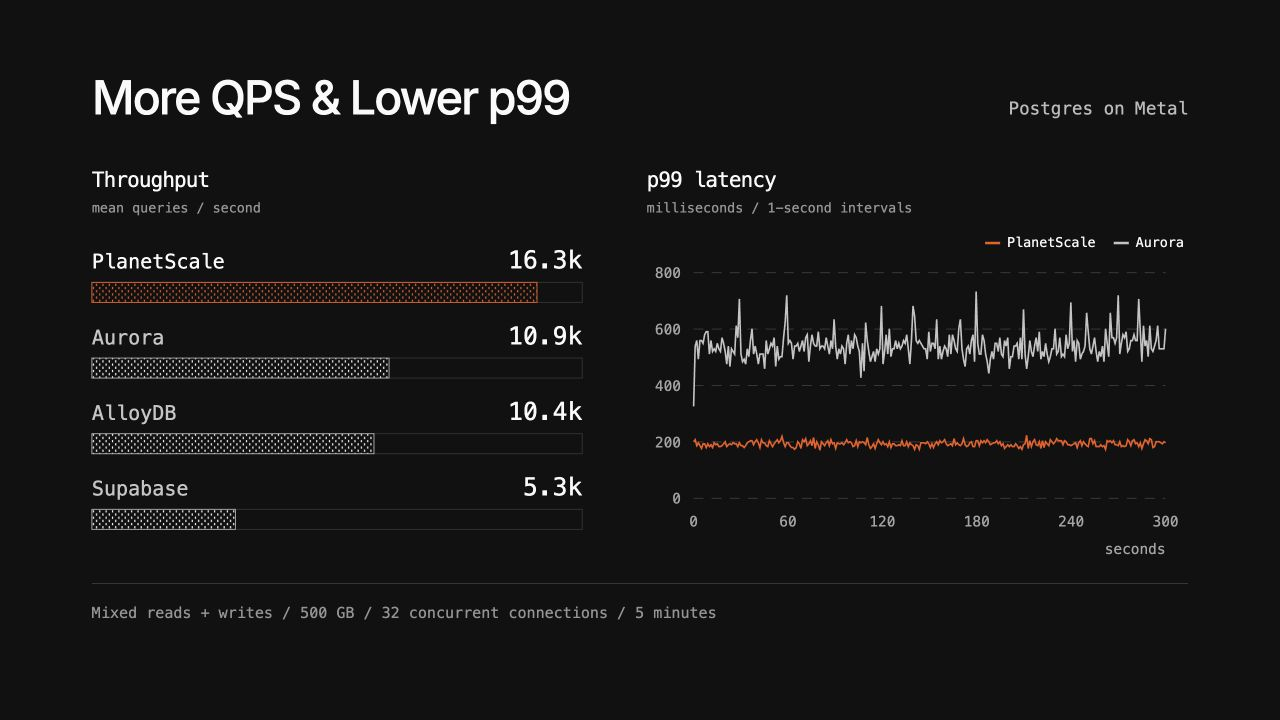
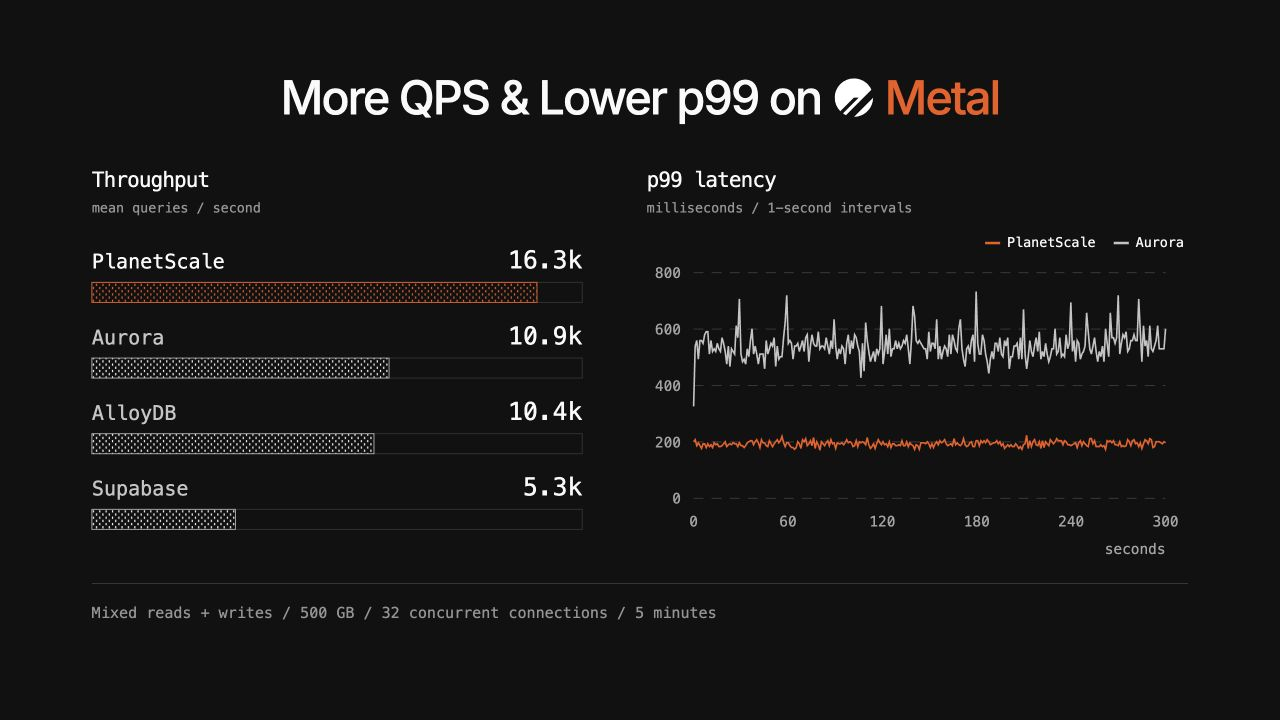
Center Metal benchmark headline with PlanetScale symbol

Changed region(s): [[0.0625, 0.0917, 0.9062, 0.1833]]

diff --git a/theme.css b/theme.css
@@ -43,7 +43,11 @@ body{margin:0;background:var(--ink);color:var(--white);font-family:Inter,Arial,s
 .ha-diagram svg{width:100%;height:auto}
 
 /* Benchmarks: align chart headings and reserve the lower band for workload context. */
-.metal-heading{display:flex;justify-content:space-between;align-items:baseline;gap:30px}
+.metal-heading{display:flex;justify-content:center;align-items:center}
+.metal-heading h2{display:flex;align-items:center;gap:16px;white-space:nowrap}
+.metal-title-brand{display:inline-flex;align-items:center;gap:14px}
+.metal-title-symbol{display:block;width:46px;height:46px;overflow:hidden;flex-shrink:0}
+.metal-title-symbol img{display:block;width:287.055px;height:46px;max-width:none}
 .metal-line{font:21px var(--mono);color:#bbb;white-space:nowrap}
 .benchmark-grid{display:grid;grid-template-columns:1fr 1.08fr;gap:64px;margin-top:52px}
 .benchmark-grid>div{position:relative}

diff --git a/build_content.py b/build_content.py
@@ -174,7 +174,7 @@ slides=[
  dict(id='opening',label='PlanetScale Postgres on Metal',theme='opening',html=f'''<h1>Postgres on <span class="accent">Metal</span></h1><div class="opening-architecture">{servers}</div>''',notes="1:15. “PlanetScale brings together the database, the hardware, and the team operating it. For your workload, we are proposing fully managed Postgres on Metal, with local NVMe storage. Our platform handles database operations, and our infrastructure team works with you on migration and production.” Point to Neki briefly: “For workloads that eventually outgrow one machine, Neki is our sharded Postgres product.” This is a product overview, not a query path or an automatic upgrade flow. Do not describe replica topology or control-plane internals here; slide 3 covers the architecture. Neki is in Platform Preview and requires a separate compatibility and migration assessment. The immediate offer remains hosted Postgres on Metal. Ask: “Where is your team spending the most time with Postgres today?” Transition: “Vitalize is one Postgres team that made this move.” Sources: https://planetscale.com/metal ; https://planetscale.com/docs/neki ; https://planetscale.com/blog/benchmarking-postgres."),
  dict(id='vitalize',label='Vitalize: 2 ms p95, half the vCPUs',theme='vitalize',html=f'''<h2>Vitalize: <span class="accent">2 ms p95</span></h2><div class="customer-story"><span>Hospital staffing software</span><span>400 GB / 150 million rows</span></div><div class="customer-move"><span>Supabase</span><span class="move-line"></span><strong>PlanetScale Metal</strong></div><div class="vitalize-charts"><div>{vitalize_latency}</div><div>{vitalize_compute}</div></div>''',notes='1:45. “Vitalize runs hospital staffing software. They moved a 400 GB Postgres database with 150 million rows from Supabase to PlanetScale Metal. They report about 2 ms p95 on half the vCPUs, with the same 16 GB of RAM.” Tell the customer story before explaining the graphs: demanding database reads, the move, then the result. The latency plot is their actual PlanetScale Query Insights capture after migration, not a paired before/after percentile. No comparable Supabase p95 is published. The 200 GB JSONB-heavy table comparison separately reports 50-second average reads before and 1.2-second maximum reads after; do not calculate a speedup from unlike statistics. The cutover included taking the app offline. These are customer-reported outcomes, not a guarantee. Transition: “Here is the platform operating that database.” Source: https://vitalize.care/blog/from-supabase-to-planetscale . Other cases and suitable alternatives: docs/customer-case-studies.md.'),
  dict(id='availability',label='Postgres Cluster Architecture',theme='availability',html=f'''<div class="title-with-stat"><h2>Postgres Cluster Architecture</h2><div class="sla"><strong>99.99<span>%</span></strong><p>single-region HA SLA</p></div></div><div class="ha-diagram">{ha}</div>''',notes="2:00. “This is one highly available Postgres cluster: three database nodes, each in a different availability zone within the same region. One node is primary; the other two are replicas.” A node (also called an instance in PlanetScale documentation) is an individual database server. An availability zone is the cloud location and failure boundary hosting that node. The whole deployment is a cluster, not one node. A, B, and C are schematic zone labels, not literal provider zone IDs. This depicts the standard three-node HA configuration; additional replicas are possible. Trace application connections, then replication, then operations. The two connection boxes are logical routing choices, not a claim of separate DNS endpoints. Replica reads are explicitly selected with a replica credential/username suffix on direct port 5432; reads must tolerate replication lag. Default PgBouncer connections on 6432 route to the primary; dedicated replica PgBouncers are a separate option. Semi-synchronous replication requires durable confirmation from at least one replica before commit success is returned. PlanetScale's custom Kubernetes operator manages the cluster's provisioning, health, failover, resizing, and upgrades; it is outside the SQL query path. Failovers can interrupt connections, so applications need retries. The 99.99% figure is the single-region monthly uptime commitment under the applicable SLA; it excludes single-node clusters and beta features. Hosted Postgres on Metal remains the offer. Transition: “Local NVMe is the hardware foundation. Let's look at its performance under load.” Verified 2026-09-27. Sources: https://planetscale.com/docs/postgres/postgres-architecture ; https://planetscale.com/docs/postgres/operations-philosophy ; https://planetscale.com/docs/postgres/scaling/replicas ; https://planetscale.com/legal/planetscale-service-level-agreement . Durable terminology: docs/postgres-architecture.md."),
- dict(id='metal',label='Postgres on Metal: throughput and p99',theme='metal',html=f'''<div class="metal-heading"><h2>More QPS &amp; Lower p99</h2><p class="metal-line">Postgres on Metal</p></div><div class="benchmark-grid"><div><h3>Throughput <span>mean queries / second</span></h3>{bars}</div><div><h3>p99 latency <span>milliseconds / 1-second intervals</span></h3><div class="chart-legend"><span class="ps-dot">PlanetScale</span><span class="aurora-dot">Aurora</span></div>{latency}</div></div><p class="workload">Mixed reads + writes / 500 GB / 32 concurrent connections / 5 minutes</p>''',notes="1:45. “In this mixed read/write benchmark, Postgres on Metal delivers more throughput and lower p99 than these tested configurations. We can evaluate the same questions against your application.” Left: arithmetic mean QPS across 300 one-second samples with 32 concurrent connections: PlanetScale 16,338.6276; Aurora 10,908.9315; AlloyDB 10,355.0109; Supabase 5,270.2068. Right: one-second interval p99 samples from the same TPCC-like benchmark, not an aggregate run-wide percentile. PlanetScale ranges 170.48–223.34 ms; Aurora 325.98–733 ms. Higher QPS and lower p99 are distinct findings. PlanetScale M-320 has 4 vCPU, 32 GB RAM, and 937 GB local NVMe; Aurora and AlloyDB use 4 vCPU/32 GB; Supabase uses 8 vCPU/32 GB and 12k IOPS. Clients run in each provider's cloud region; AlloyDB uses GCP, the others AWS. Work is sent to the primary, not summed across replicas. These are vendor-run synthetic results with different hardware and infrastructure, not isolated proof that NVMe causes every difference. The site's rounded ~18k headline spans other runs; this deck deliberately uses a single concurrency and exact samples. A separate read-only test has roughly equal average throughput for Aurora and PlanetScale, so do not claim every workload is faster by this ratio. Ask: “Which workload would we need to reproduce for this to matter to you?” Validate p95/p99, throughput, errors, and resource use in discovery. Transition: “When one machine becomes the constraint, Neki extends the architecture across Postgres shards.” Sources: https://planetscale.com/benchmarks ; https://planetscale.com/benchmarks/aurora ; https://planetscale.com/benchmarks/alloydb ; https://planetscale.com/benchmarks/supabase . Data definitions: docs/postgres-metal-benchmarks.md."),
+ dict(id='metal',label='Postgres on Metal: throughput and p99',theme='metal',html=f'''<div class="metal-heading"><h2>More QPS &amp; Lower p99 on <span class="metal-title-brand"><span class="metal-title-symbol"><img src="assets/planetscale-white.svg" alt="PlanetScale"></span><span class="accent">Metal</span></span></h2></div><div class="benchmark-grid"><div><h3>Throughput <span>mean queries / second</span></h3>{bars}</div><div><h3>p99 latency <span>milliseconds / 1-second intervals</span></h3><div class="chart-legend"><span class="ps-dot">PlanetScale</span><span class="aurora-dot">Aurora</span></div>{latency}</div></div><p class="workload">Mixed reads + writes / 500 GB / 32 concurrent connections / 5 minutes</p>''',notes="1:45. “In this mixed read/write benchmark, Postgres on Metal delivers more throughput and lower p99 than these tested configurations. We can evaluate the same questions against your application.” Left: arithmetic mean QPS across 300 one-second samples with 32 concurrent connections: PlanetScale 16,338.6276; Aurora 10,908.9315; AlloyDB 10,355.0109; Supabase 5,270.2068. Right: one-second interval p99 samples from the same TPCC-like benchmark, not an aggregate run-wide percentile. PlanetScale ranges 170.48–223.34 ms; Aurora 325.98–733 ms. Higher QPS and lower p99 are distinct findings. PlanetScale M-320 has 4 vCPU, 32 GB RAM, and 937 GB local NVMe; Aurora and AlloyDB use 4 vCPU/32 GB; Supabase uses 8 vCPU/32 GB and 12k IOPS. Clients run in each provider's cloud region; AlloyDB uses GCP, the others AWS. Work is sent to the primary, not summed across replicas. These are vendor-run synthetic results with different hardware and infrastructure, not isolated proof that NVMe causes every difference. The site's rounded ~18k headline spans other runs; this deck deliberately uses a single concurrency and exact samples. A separate read-only test has roughly equal average throughput for Aurora and PlanetScale, so do not claim every workload is faster by this ratio. Ask: “Which workload would we need to reproduce for this to matter to you?” Validate p95/p99, throughput, errors, and resource use in discovery. Transition: “When one machine becomes the constraint, Neki extends the architecture across Postgres shards.” Sources: https://planetscale.com/benchmarks ; https://planetscale.com/benchmarks/aurora ; https://planetscale.com/benchmarks/alloydb ; https://planetscale.com/benchmarks/supabase . Data definitions: docs/postgres-metal-benchmarks.md."),
  dict(id='neki',label='Neki: Horizontal Scaling for Postgres',theme='neki',html=f'''<div class="neki-heading"><h2>Neki: Horizontal Scaling for Postgres</h2><div class="neki-lockup"><img src="assets/neki-cat.svg" alt="Neki"></div></div><div class="neki-topology">{neki}</div>''',notes="1:15. “Neki is our sharded Postgres architecture. Every shard is real Postgres, with routing and operations managed as one database.” Walk from the application to the router, then one shard group, then the control plane. Sidecars pool connections; shard primaries and replicas carry data. The diagram represents replicated HA shard groups, not the primary-only benchmark on the next slide. Say that Neki is available in Platform Preview as of the verified documentation on 27 September 2026; it is not covered by an SLA. The public site's “now available” wording does not mean general availability. Cross-shard transactions remain listed as coming soon. Evaluate shard keys, query/transaction compatibility and the transition from the current database with the team. Do not imply an automatic in-place conversion from ordinary PlanetScale Postgres. The immediate sale remains hosted Postgres on Metal. Transition: “The benchmark demonstrates how far this architecture can scale for a defined workload.” Sources: https://neki.dev/ ; https://planetscale.com/docs/neki ; https://planetscale.com/blog/the-architecture-of-neki ."),
  dict(id='neki-scale',label='Neki: 118.5M queries per second',theme='neki neki-scale',html=f'''<div class="neki-heading"><h2><span class="yellow">118.5M</span> queries / second</h2><span class="neki-wordmark">[ NEKI ]</span></div><div class="scale-layout"><div><div class="scale-chart">{scale}</div><p class="neki-workload">Read-only point selects / Primary-only shards</p></div><div class="scale-metrics"><div><strong>1.22 <span>PiB</span></strong><p>data</p></div><div><strong>512</strong><p>shards</p></div><div><strong>6.06 <span>ms</span></strong><p>router p99</p></div></div></div>''',notes="1:00. “The published Neki run sustained 118.5 million queries per second across 512 shards over a 1.22 PiB dataset.” Follow the 5-, 50-, and 512-shard series and stop. Exact QPS: 999,624; 9,923,900; 118,538,803. Both axes are logarithmic. Workload: read-only, one-row primary-key point selects sent to a single shard. The measured configuration had 512 primary-only shards and 480 routers, without replicas or a failover event, for 16 minutes. It does not establish write performance or HA behavior. The 6.06 ms p99 is at the router; client p99 was 13.95 ms. These metrics do not share the TPCC workload or Vitalize workload and should not be compared on a common chart. Transition: “Convex shows how a production workload benefited from the move to PlanetScale.” Source: https://planetscale.com/blog/118-million-queries-per-second-on-neki ."),
  dict(id='convex',label='Convex migrated from Aurora to PlanetScale Postgres Metal',theme='customer-case convex',html=f'''<div class="case-heading convex-heading"><img class="convex-title-symbol" src="assets/convex-symbol-color.svg" alt=""><h2>Convex migrated from Aurora to PlanetScale Postgres Metal</h2></div><div class="convex-curves">{convex_plot}</div><div class="convex-quote"><q>p50 is the new p99.</q><span>Jamie Turner / Convex</span></div>''',notes="1:15. Convex provides backend infrastructure for developers. Its Chef product stores message histories and project snapshots in a Convex backend. The team moved that workload from AWS Aurora to PlanetScale for Postgres. Query p99 moved from a noisy 10–15 ms to a steadier 5–7 ms; batch-commit p99 had spiked between 75 and 200 ms and subsequently stayed around 20 ms. Both panels display the unchanged original customer screenshot, cropped only at the panel boundary through CSS. A CSS invert/hue-rotation filter adapts its light background to dark mode. All percentile lines, original axis values, and legends are preserved. The source chart vertical axes are in seconds; the numeric p99 summaries below are in milliseconds and use the article’s explicit reported ranges. The original query chart clips peaks above 0.02 seconds. Provider labels indicate the before/after portions around the visible step near 23:55, not a separately verified cutover timestamp. Each chart has its own vertical scale. The closing quote, “p50 is the new p99,” is Jamie Turner’s wording in the customer post. Treat it as a qualitative summary of the improvement, not a claim that every old p50 exactly equals every new p99. Preserve the approximate qualifier on 20 ms. Do not imply that all Convex workloads achieved these results, identify the prior Aurora engine without evidence, or claim a controlled hardware comparison. The article discusses Metal as the motivation but does not specify the measured cluster tier; label the destination PlanetScale for Postgres. Gong structure: infrastructure buyer's need, one named production workload, the change, and the measured outcome. Ask which tail-latency path matters most to the prospect. Source: https://news.convex.dev/powered-by-planetscale-for-postgres/ . Transition: “Autumn shows what the migration partnership can look like.”"),
